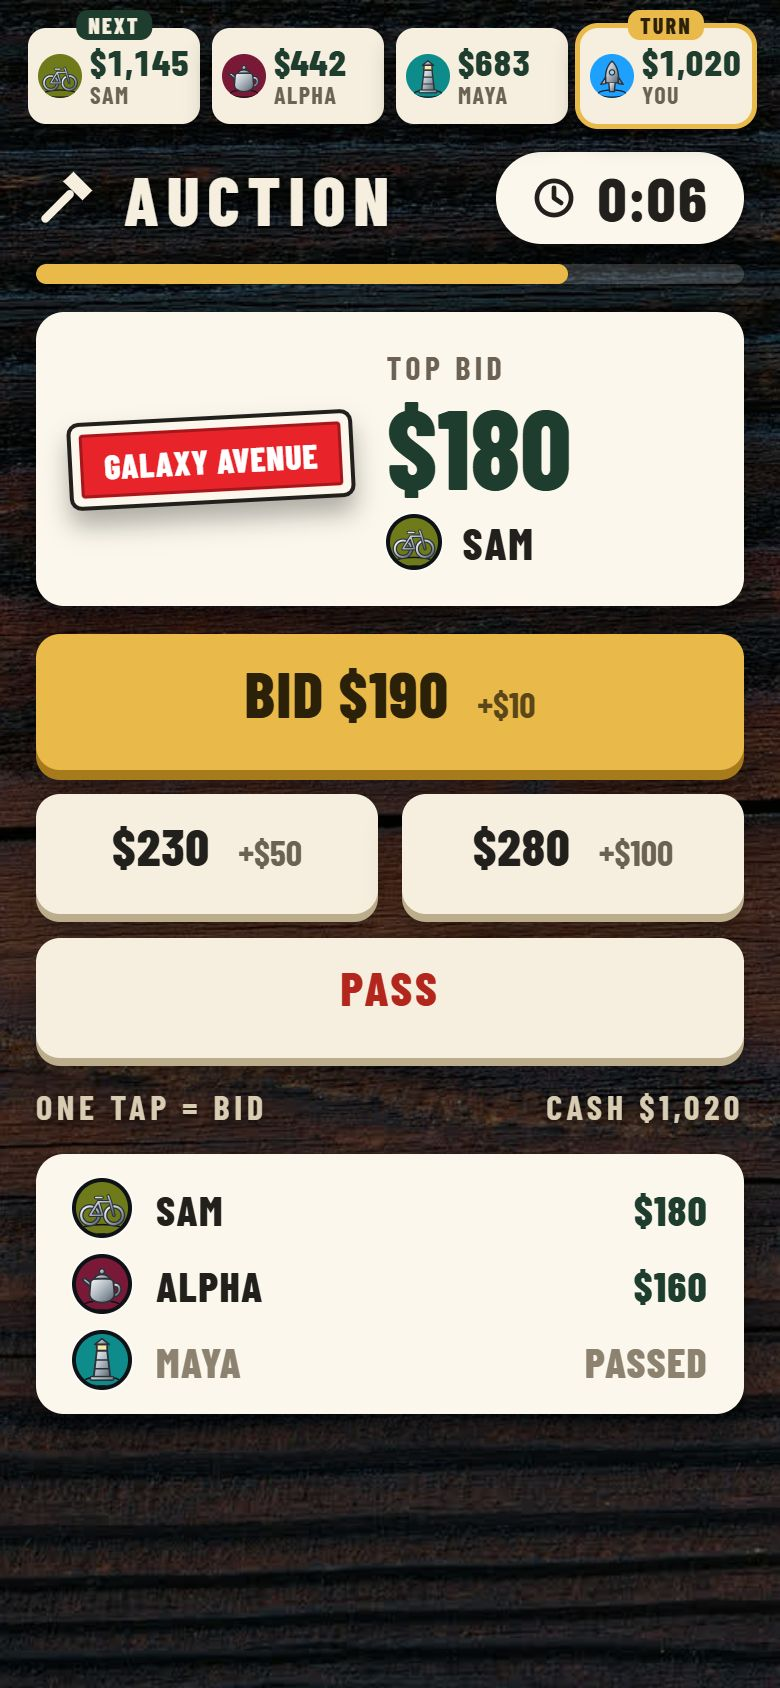
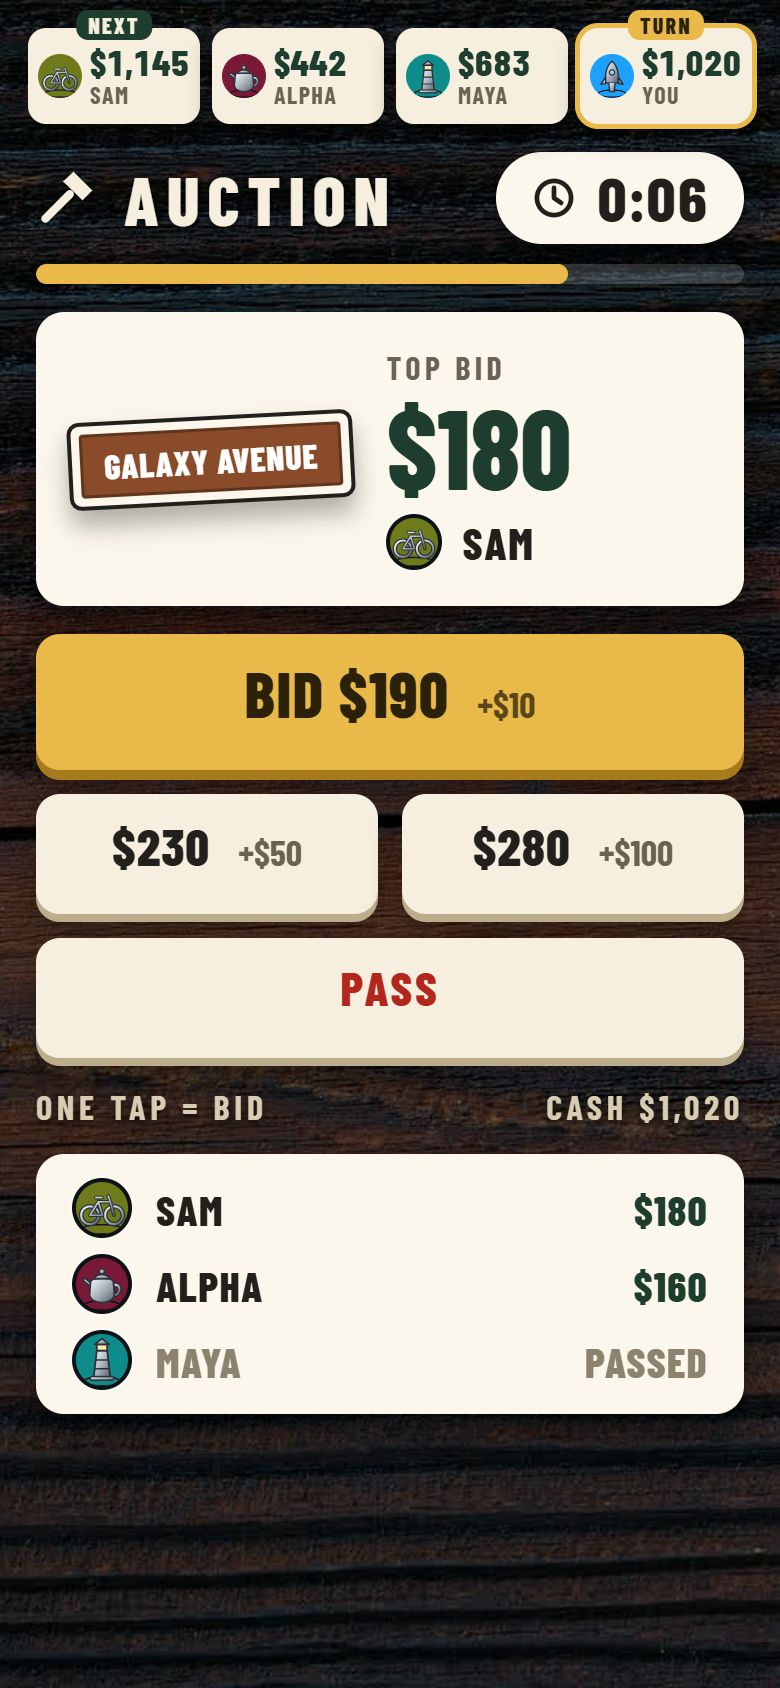
New board colours, DEED label, padlock jail corner
The eight set colours move to new places (pale at the cheap end, deep at
the dear end). Each colour keeps its text colour and its name in
messages; photos stay with the price tier. Colour-blind separation
between neighbouring sets rises from 14.7 to 17.1. Deed cards say DEED,
and the jail corner is a slate box with a padlock. Text colour on set
headers now always comes from GROUP_INK. README pictures retaken.

Changed region(s): [[0.0923, 0.2464, 0.4615, 0.3081]]

diff --git a/web/table/views.js b/web/table/views.js
@@ -5,7 +5,7 @@
 
 import { cellPosition, deedHtml } from "../shared/board.js";
 import {
-  GROUP_COLORS, aiLevelLabel, colourWord, counterChanges, deviceLabel, escapeHtml, inputOf, lastReply, money, playerById, possessive, quoteState, signedMoney, spacePhoto, upper,
+  GROUP_COLORS, GROUP_INK, aiLevelLabel, colourWord, counterChanges, deviceLabel, escapeHtml, inputOf, lastReply, money, playerById, possessive, quoteState, signedMoney, spacePhoto, upper,
 } from "../shared/format.js";
 import {
   buildOptions, canManage, cardPreview, dealBalance, debtPlan, fullSets, groupIndexes, mortgageValue, nextBuild,
@@ -1371,7 +1371,7 @@ export function stageHtml(state, ctx = {}) {
     <div class="auc-stage__title">${ICONS.hammer}<span>AUCTION</span></div>
     <div class="auc-stage__mid">
       <div class="auc-deed"${photo ? ` data-photo="${photo}"` : ""} data-deed-info="${auction.spaceIndex}">
-        <div class="auc-deed__head" style="background:${band};color:${inkOn(band)}"><span class="auc-deed__eyebrow">TITLE DEED</span><span class="auc-deed__name">${e(upper(space.name))}</span></div>
+        <div class="auc-deed__head" style="background:${band};color:${inkOn(band)}"><span class="auc-deed__eyebrow">DEED</span><span class="auc-deed__name">${e(upper(space.name))}</span></div>
         <span class="auc-deed__list">LIST ${money(space.price)}</span>
       </div>
       ${auctionClockHtml(auction, now)}
@@ -1562,7 +1562,7 @@ export function propertyModel(state, playerId) {
     return {
       key: block.key, kind: block.kind,
       title: property ? upper(colourWord(block.key)) : block.kind === "railroad" ? "RAILROADS" : "UTILITIES",
-      colour, ink: property && ["lightBlue", "orange", "yellow"].includes(block.key) ? "#15191E" : "#FFFFFF",
+      colour, ink: property ? GROUP_INK[block.key] || "#FFFFFF" : "#FFFFFF",
       owned: block.indexes.length, size: block.size, full, progress: full && property ? "FULL SET" : `${block.indexes.length} OF ${block.size}`, deeds,
     };
   });

diff --git a/web/shared/board.js b/web/shared/board.js
@@ -45,7 +45,7 @@
 //   board.onSquareTap((index) => openDeedSheet(index));
 // Demo of all of the above at 360/390/430 px: /shared/board-demo.html
 
-import { GROUP_COLORS, escapeHtml, money, playerById, spacePhoto } from "./format.js";
+import { GROUP_COLORS, GROUP_INK, escapeHtml, money, playerById, spacePhoto } from "./format.js";
 import { propState, rentLabel } from "./insights.js";
 import { hopToken, prefersReducedMotion } from "./motion.js";
 import { inkOn, playerColor, tokenGlyphSvg, tokenKindOf, tokenSvg } from "./tokens.js";
@@ -669,12 +669,11 @@ export class Board {
 }
 
 // Mini deed for the board centre or the phone (rent table + price). `eyebrow: ""` drops the line.
-export function deedHtml(state, index, { eyebrow = "TITLE DEED", rows = "short", nowLevel = null, className = "" } = {}) {
+export function deedHtml(state, index, { eyebrow = "DEED", rows = "short", nowLevel = null, className = "" } = {}) {
   const space = state.board[index];
   if (!space) return "";
   const color = space.type === "property" ? GROUP_COLORS[space.group] : "#FBFAF4";
-  const darkHead = ["brown", "pink", "red", "green", "darkBlue"].includes(space.group);
-  const ink = darkHead ? "#FFFFFF" : "#15191E";
+  const ink = space.type === "property" ? GROUP_INK[space.group] || "#FFFFFF" : "#15191E";
   let body = "";
   if (space.type === "property") {
     const list = rows === "full"
@@ -706,7 +705,7 @@ export function miniDeedHtml(state, index, { selected = false, locked = false, b
   const space = state.board[index];
   if (!space) return "";
   const color = space.type === "property" ? GROUP_COLORS[space.group] : space.type === "railroad" ? "#2B323A" : "#5B6470";
-  const ink = space.type === "property" && ["lightBlue", "orange", "yellow"].includes(space.group) ? "#15191E" : "#FFFFFF";
+  const ink = space.type === "property" ? GROUP_INK[space.group] || "#FFFFFF" : "#FFFFFF";
   const prop = propState(state, index);
   let label = "price";
   let right = money(space.price);

diff --git a/web/shared/deed.js b/web/shared/deed.js
@@ -11,21 +11,21 @@
 // Railroads: rent by how many one owner has; utilities: 4× or 10× the dice. Corners, tax, Headlines
 // and Post get a short explanation.
 
-import { GROUP_COLORS, colourWord, escapeHtml, money, playerById, possessive, spacePhoto } from "./format.js";
+import { GROUP_COLORS, GROUP_INK, colourWord, escapeHtml, money, playerById, possessive, spacePhoto } from "./format.js";
 import { groupIndexes, loanSecuredBy, mortgageValue, ownsGroup, propState, rulesOf, unmortgageCost } from "./insights.js";
 import { playerChipHtml } from "./tokens.js";
 
 const e = escapeHtml;
 const RAILROADS = [5, 15, 25, 35];
 const UTILITIES = [12, 28];
-const DARK_HEADS = new Set(["brown", "pink", "red", "green", "darkBlue"]);
+
 
 function shortName(name) {
   return String(name || "").replace(/\bRailroad\b/, "RR").replace(/\bStreet\b/, "St").replace(/\bAvenue\b/, "Ave").replace(/\bRoad\b/, "Rd").replace(/\bCompany\b/, "Co");
 }
 
 function headStyle(space) {
-  if (space.type === "property") return `background:${GROUP_COLORS[space.group]};color:${DARK_HEADS.has(space.group) ? "#FFFFFF" : "#15191E"}`;
+  if (space.type === "property") return `background:${GROUP_COLORS[space.group]};color:${GROUP_INK[space.group] || "#FFFFFF"}`;
   if (space.type === "railroad") return "background:#2B323A;color:#FFFFFF";
   if (space.type === "utility") return "background:#5B6470;color:#FFFFFF";
   return "background:#13294B;color:#FFFFFF";
@@ -84,7 +84,7 @@ export function deedDetailHtml(state, spaceIndex, { viewerId = null, size = "md"
     : "";
   let body = "";
   let foot = "";
-  let eyebrow = "TITLE DEED";
+  let eyebrow = "DEED";
 
   if (space.type === "property") {
     const level = rentLevel(state, spaceIndex);

diff --git a/web/shared/format.js b/web/shared/format.js
@@ -1,22 +1,22 @@
 // Formatting helpers shared by the table and phone apps. Pure: no DOM access.
 
 export const GROUP_COLORS = {
-  brown: "#8A4B2A",
-  lightBlue: "#A9DCF2",
-  pink: "#D3368C",
-  orange: "#F7941D",
-  red: "#E8232A",
-  yellow: "#FDE21B",
-  green: "#1FAE57",
-  darkBlue: "#1166B4",
+  brown: "#A9DCF2",
+  lightBlue: "#D3368C",
+  pink: "#FDE21B",
+  orange: "#1FAE57",
+  red: "#8A4B2A",
+  yellow: "#F7941D",
+  green: "#1166B4",
+  darkBlue: "#E8232A",
 };
 
 // Text colour that reads on each group colour (headers in the phone property tab).
 export const GROUP_INK = {
-  brown: "#FFFFFF",
-  lightBlue: "#15191E",
-  pink: "#FFFFFF",
-  orange: "#15191E",
+  brown: "#15191E",
+  lightBlue: "#FFFFFF",
+  pink: "#15191E",
+  orange: "#FFFFFF",
   red: "#FFFFFF",
   yellow: "#15191E",
   green: "#FFFFFF",
@@ -24,14 +24,14 @@ export const GROUP_INK = {
 };
 
 export const COLOUR_WORDS = {
-  brown: "brown",
-  lightBlue: "light blue",
-  pink: "pink",
-  orange: "orange",
-  red: "red",
-  yellow: "yellow",
-  green: "green",
-  darkBlue: "dark blue",
+  brown: "light blue",
+  lightBlue: "pink",
+  pink: "yellow",
+  orange: "green",
+  red: "brown",
+  yellow: "orange",
+  green: "dark blue",
+  darkBlue: "red",
 };
 
 const MINUS = "−";

diff --git a/web/table/tabletop.css b/web/table/tabletop.css
@@ -933,3 +933,18 @@ body:has(#game-screen:not([hidden])) .toast.is-error, body:has(#join-screen:not(
 .overlay .dialog__lead--label { margin: 0; text-align: center; font-family: var(--tt-cond); font-size: 26px; font-weight: 800; letter-spacing: 0.14em; color: var(--tt-ink); }
 .overlay .dialog--felt .dialog__actions { display: grid; grid-template-columns: 1fr 1fr; gap: 16px; }
 .overlay .dialog--felt .dialog__actions .big-btn { height: 80px; font-size: 34px; }
+
+.jailbox { background: #34424C !important; }
+.jailbox__label { color: #F2EEE4 !important; }
+.jailbox .jailbox__bars, .board--compact .jailbox__bars, .game__board .jailbox .jailbox__bars {
+  inset: auto; left: 50%; top: 52%; width: 26%; height: auto; aspect-ratio: 1.15; transform: translate(-50%, -30%);
+  background: #E2B33C; border-radius: 3px; opacity: 1; box-shadow: none;
+}
+.jailbox .jailbox__bars::before {
+  content: ""; position: absolute; left: 20%; right: 20%; bottom: 96%; height: 62%;
+  border: 3px solid #C9CFD2; border-bottom: 0; border-radius: 999px 999px 0 0;
+}
+.jailbox .jailbox__bars::after {
+  content: ""; position: absolute; left: 50%; top: 34%; width: 14%; height: 34%; transform: translateX(-50%);
+  background: #34424C; border-radius: 999px;
+}

diff --git a/web/shared/board.css b/web/shared/board.css
@@ -333,3 +333,18 @@
 .deed-card--sm .deed-card__costs { padding: 4px 10px; }
 .deed-card--sm .deed-card__set { padding: 4px 10px 8px; }
 .deed-card--sm .deed-card__head { padding: 6px 10px 8px; }
+
+.jailbox { background: #34424C !important; }
+.jailbox__label { color: #F2EEE4 !important; }
+.jailbox .jailbox__bars, .board--compact .jailbox__bars, .game__board .jailbox .jailbox__bars {
+  inset: auto; left: 50%; top: 52%; width: 26%; height: auto; aspect-ratio: 1.15; transform: translate(-50%, -30%);
+  background: #E2B33C; border-radius: 3px; opacity: 1; box-shadow: none;
+}
+.jailbox .jailbox__bars::before {
+  content: ""; position: absolute; left: 20%; right: 20%; bottom: 96%; height: 62%;
+  border: 3px solid #C9CFD2; border-bottom: 0; border-radius: 999px 999px 0 0;
+}
+.jailbox .jailbox__bars::after {
+  content: ""; position: absolute; left: 50%; top: 34%; width: 14%; height: 34%; transform: translateX(-50%);
+  background: #34424C; border-radius: 999px;
+}

diff --git a/web/shared/tokens.css b/web/shared/tokens.css
@@ -44,14 +44,14 @@
   --hotel: #E5353B;
   --hotel-dark: #A81E23;
 
-  --g-brown: #8A4B2A;
-  --g-lightBlue: #A9DCF2;
-  --g-pink: #D3368C;
-  --g-orange: #F7941D;
-  --g-red: #E8232A;
-  --g-yellow: #FDE21B;
-  --g-green: #1FAE57;
-  --g-darkBlue: #1166B4;
+  --g-brown: #A9DCF2;
+  --g-lightBlue: #D3368C;
+  --g-pink: #FDE21B;
+  --g-orange: #1FAE57;
+  --g-red: #8A4B2A;
+  --g-yellow: #F7941D;
+  --g-green: #1166B4;
+  --g-darkBlue: #E8232A;
 
   /* Player palette: one colour per token (source of truth: web/shared/palette.json, which the
      server reads; JS twin TOKEN_COLORS in tokens.js; web/tests/board.check.mjs keeps all three
